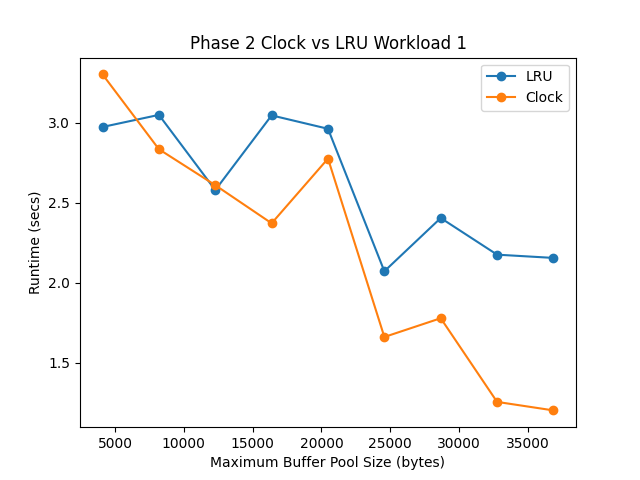
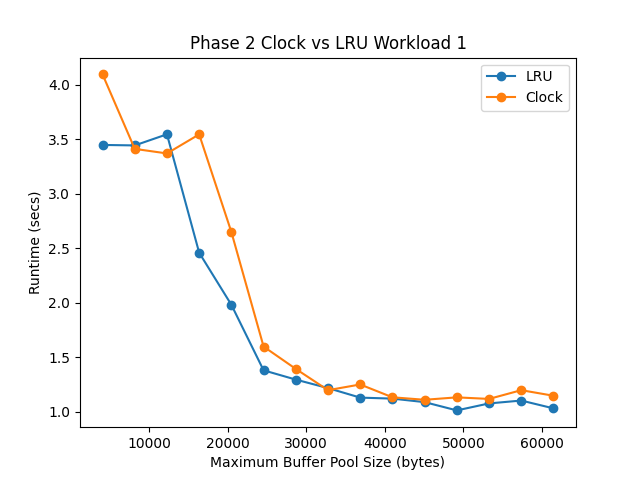
finished phase 2 experiment 1

diff --git a/experiments/phase2_experiment1.cpp b/experiments/phase2_experiment1.cpp
@@ -23,13 +23,13 @@ int main() {
         4096  * 6,
         4096  * 7,
         4096  * 8,
-        4096  * 9
-        // 4096  * 10,
-        // 4096  * 11,
-        // 4096  * 12,
-        // 4096  * 13,
-        // 4096  * 14,
-        // 4096  * 15
+        4096  * 9,
+        4096  * 10,
+        4096  * 11,
+        4096  * 12,
+        4096  * 13,
+        4096  * 14,
+        4096  * 15
     };
     std::vector<int> max_bp_sizes(arr, arr + sizeof(arr) / sizeof(int));
     std::vector<double> lru_runtimes_workload_1;
@@ -66,20 +66,20 @@ int main() {
 
             // Workload 1
             auto start1 = std::chrono::high_resolution_clock::now();
-            // for (int j = 0; j < 30; ++j) {
-            //     for (int i = 0; i < 10; ++i) {
-            //         db.get(1);
-            //     }
+            for (int j = 0; j < 30; ++j) {
+                for (int i = 0; i < 10; ++i) {
+                    db1.get(1);
+                }
 
-            //     for (int i = 0; i < 20; ++i) {
-            //         db.get(256 * i);
-            //     }
-            // }
-
-            for (int i = 0; i < 1000; ++i) {
-                int key = dist(gen) == std::uniform_int_distribution<int>(0, 1000)(gen) ? 1 : std::uniform_int_distribution<int>(1000, n - 1)(gen);
-                db1.get(key);
+                for (int i = 0; i < 20; ++i) {
+                    db1.get(256 * i);
+                }
             }
+
+            // for (int i = 0; i < 1000; ++i) {
+            //     int key = dist(gen) == std::uniform_int_distribution<int>(0, 1000)(gen) ? 1 : std::uniform_int_distribution<int>(1000, n - 1)(gen);
+            //     db1.get(key);
+            // }
             auto stop1 = std::chrono::high_resolution_clock::now();
             auto duration1 = std::chrono::duration_cast<std::chrono::microseconds>(stop1 - start1);
             double runtime1 = duration1.count() / 1000000.0; // convert to seconds
